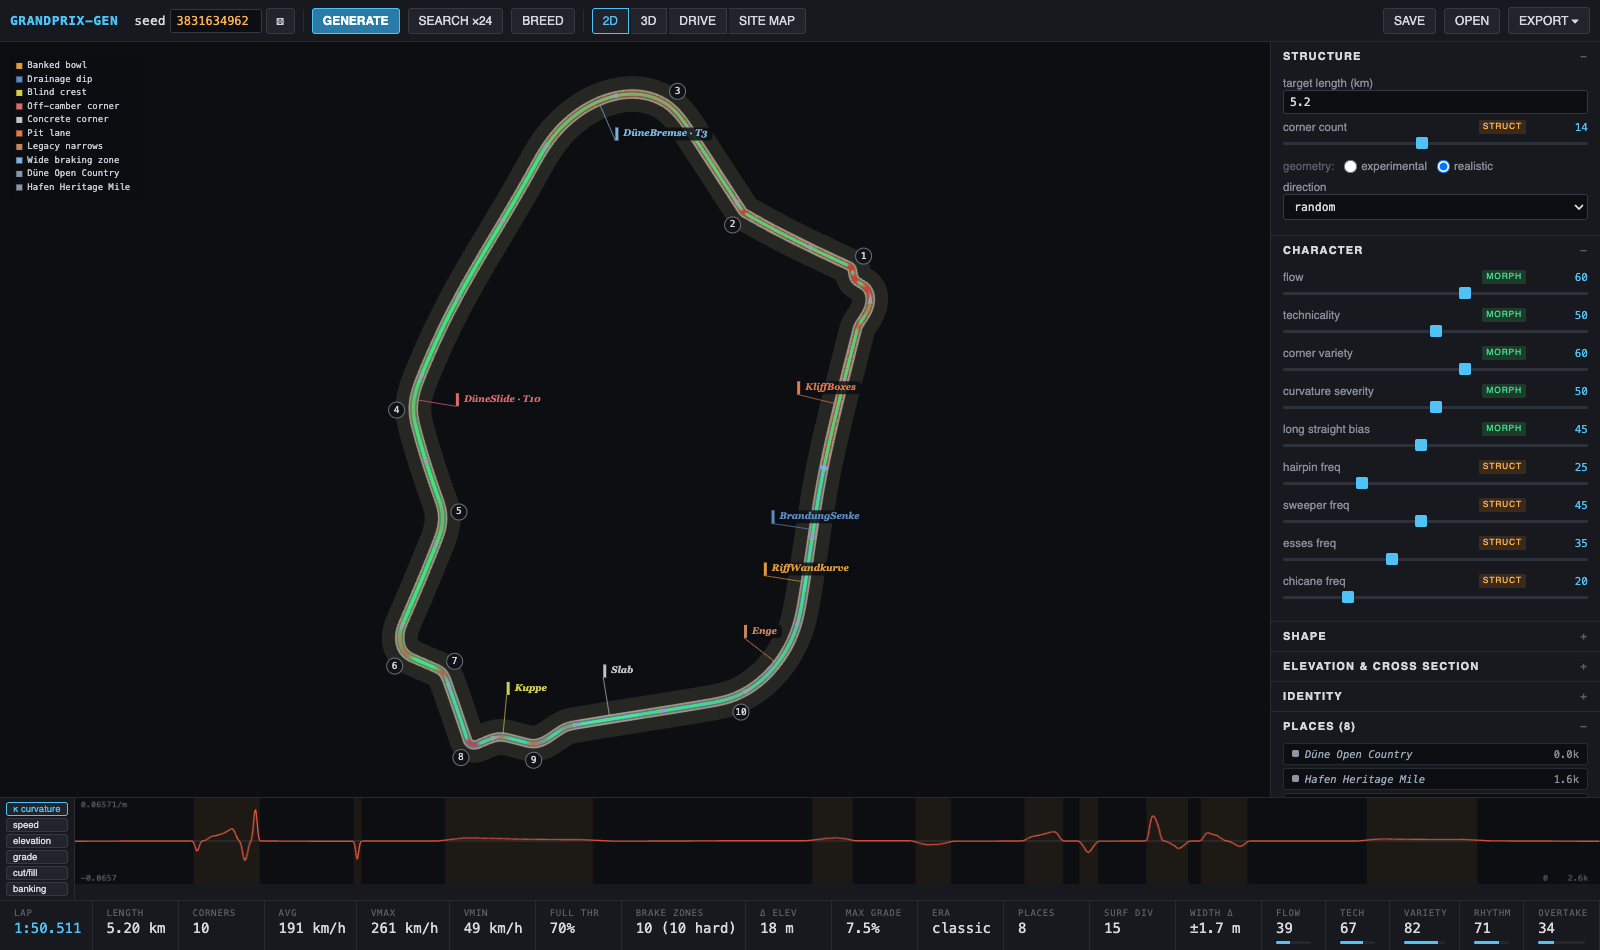
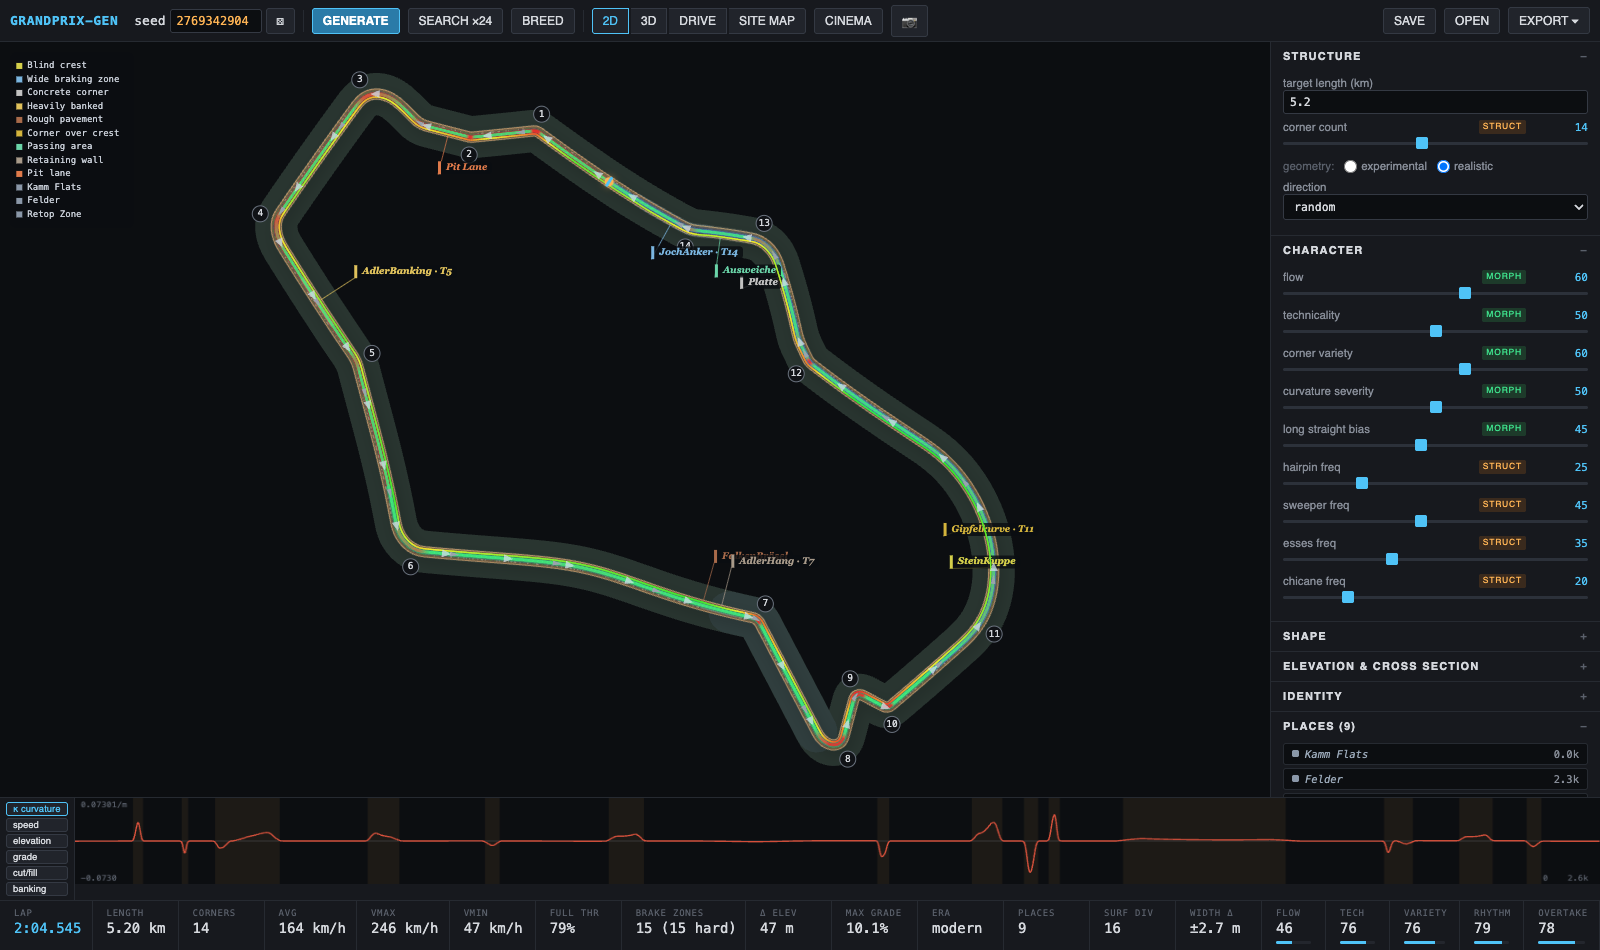
docs: visual systems in README + refreshed screenshots

diff --git a/src/ui/view3d.ts b/src/ui/view3d.ts
@@ -1307,12 +1307,16 @@ export class View3D {
   }
 
   /** Per-frame label upkeep: distance fade + roughly constant screen size. */
-  private updateLabels(): void {
+  private labelFade = 1;
+  private updateLabels(dt = 0.016): void {
     const span = this.state?.track ? estimateSpan(this.state.track) : 2000;
+    // drive view: labels stay out of the way (the HUD calls features itself)
+    const target = this.driveActive ? 0.18 : 1;
+    this.labelFade += (target - this.labelFade) * Math.min(1, dt * 5);
     for (const { sprite } of this.labelSprites) {
       const d = this.camera.position.distanceTo(sprite.position);
       const mat = sprite.material as SpriteMaterial;
-      mat.opacity = Math.max(0, Math.min(1, 1.25 - d / (span * 1.1)));
+      mat.opacity = this.labelFade * Math.max(0, Math.min(1, 1.25 - d / (span * 1.1)));
       const w = Math.max(14, Math.min(52, d * 0.045));
       const aspect = sprite.scale.x / Math.max(1e-6, sprite.scale.y);
       sprite.scale.set(w * aspect, w, 1);
@@ -1369,6 +1373,7 @@ export class View3D {
         this.camera.position.y += Math.sin(tSh * 51.7 + 1.3) * shakeAmp * 0.35;
         this.camera.position.z += Math.sin(tSh * 43.1 + 2.9) * shakeAmp * 0.5;
       }
+      this.updateLabels(dt);
       this.hud.update(state, this.driveS, v, dt);
       if (this.headlight) {
         this.headlight.intensity = SKY_PRESETS[this.dayTime].floodlights ? 260 : 120;
@@ -1383,7 +1388,7 @@ export class View3D {
       }
       this.controls.enabled = true;
       this.controls.update();
-      this.updateLabels();
+      this.updateLabels(dt);
       this.updateHover(performance.now());
       this.updateFloodlights();
     }

diff --git a/README.md b/README.md
@@ -113,6 +113,34 @@ cross-slope, earthwork (with a superlinear penalty on giant fills),
 contour-following, and building overlap (OSM footprints; soft cost or hard
 rejection).
 
+### Rendering & atmosphere
+
+The 3D view is built to be looked at, not just inspected:
+
+- **Post pipeline**: ACES filmic tone mapping, subtle bloom, SMAA, vignette.
+- **Stylized sky dome** (custom shader): saturated gradients, sun disk +
+  halo, drifting fbm clouds, twinkling star field + moon at night.
+- **Time of day**: noon / golden hour / dusk / night presets; night lights
+  the circuit with floodlight poles (pooled real lights follow the camera).
+- **Weather**: rain mode -- wet asphalt (roughness lerps down, metalness
+  up), slate overcast, close fog, camera-following rain streaks.
+- **Surface detail**: racing-line rubber darkening (outside-in-out through
+  corners), skid patches at braking entries, asphalt speckle, grass blade
+  and gravel textures, castellated aggressive/sausage kerbs.
+- **Trackside**: distance boards (150/100/50) at corner entries, seeded
+  sponsor billboards, start gantry + painted grid slots, grandstands with
+  colored seats, marshal posts, pit lane with tapered merge.
+- **Nature**: two tree species with trunks (conifers take the high
+  ground), animated ripple water with sun glint, drifting cloud shadows.
+- **Drive mode**: HUD (speed/gear/rpm, pedal trace, lap timer, mini map,
+  feature flash), FOV kick at speed, roughness-scaled camera shake
+  (heritage circuits ride genuinely rough), headlight in the dark.
+- **CINEMA** button for an auto-orbiting aerial shot, and a camera button
+  that saves the current frame as PNG.
+- The **2D map** is a live schematic: speed-heat ribbon (red apices,
+  green straights), direction chevrons, feature chips + legend, sector
+  zone halos, drop shadow, animated lap dot, station tooltip.
+
 ## Architecture
 
 ```
